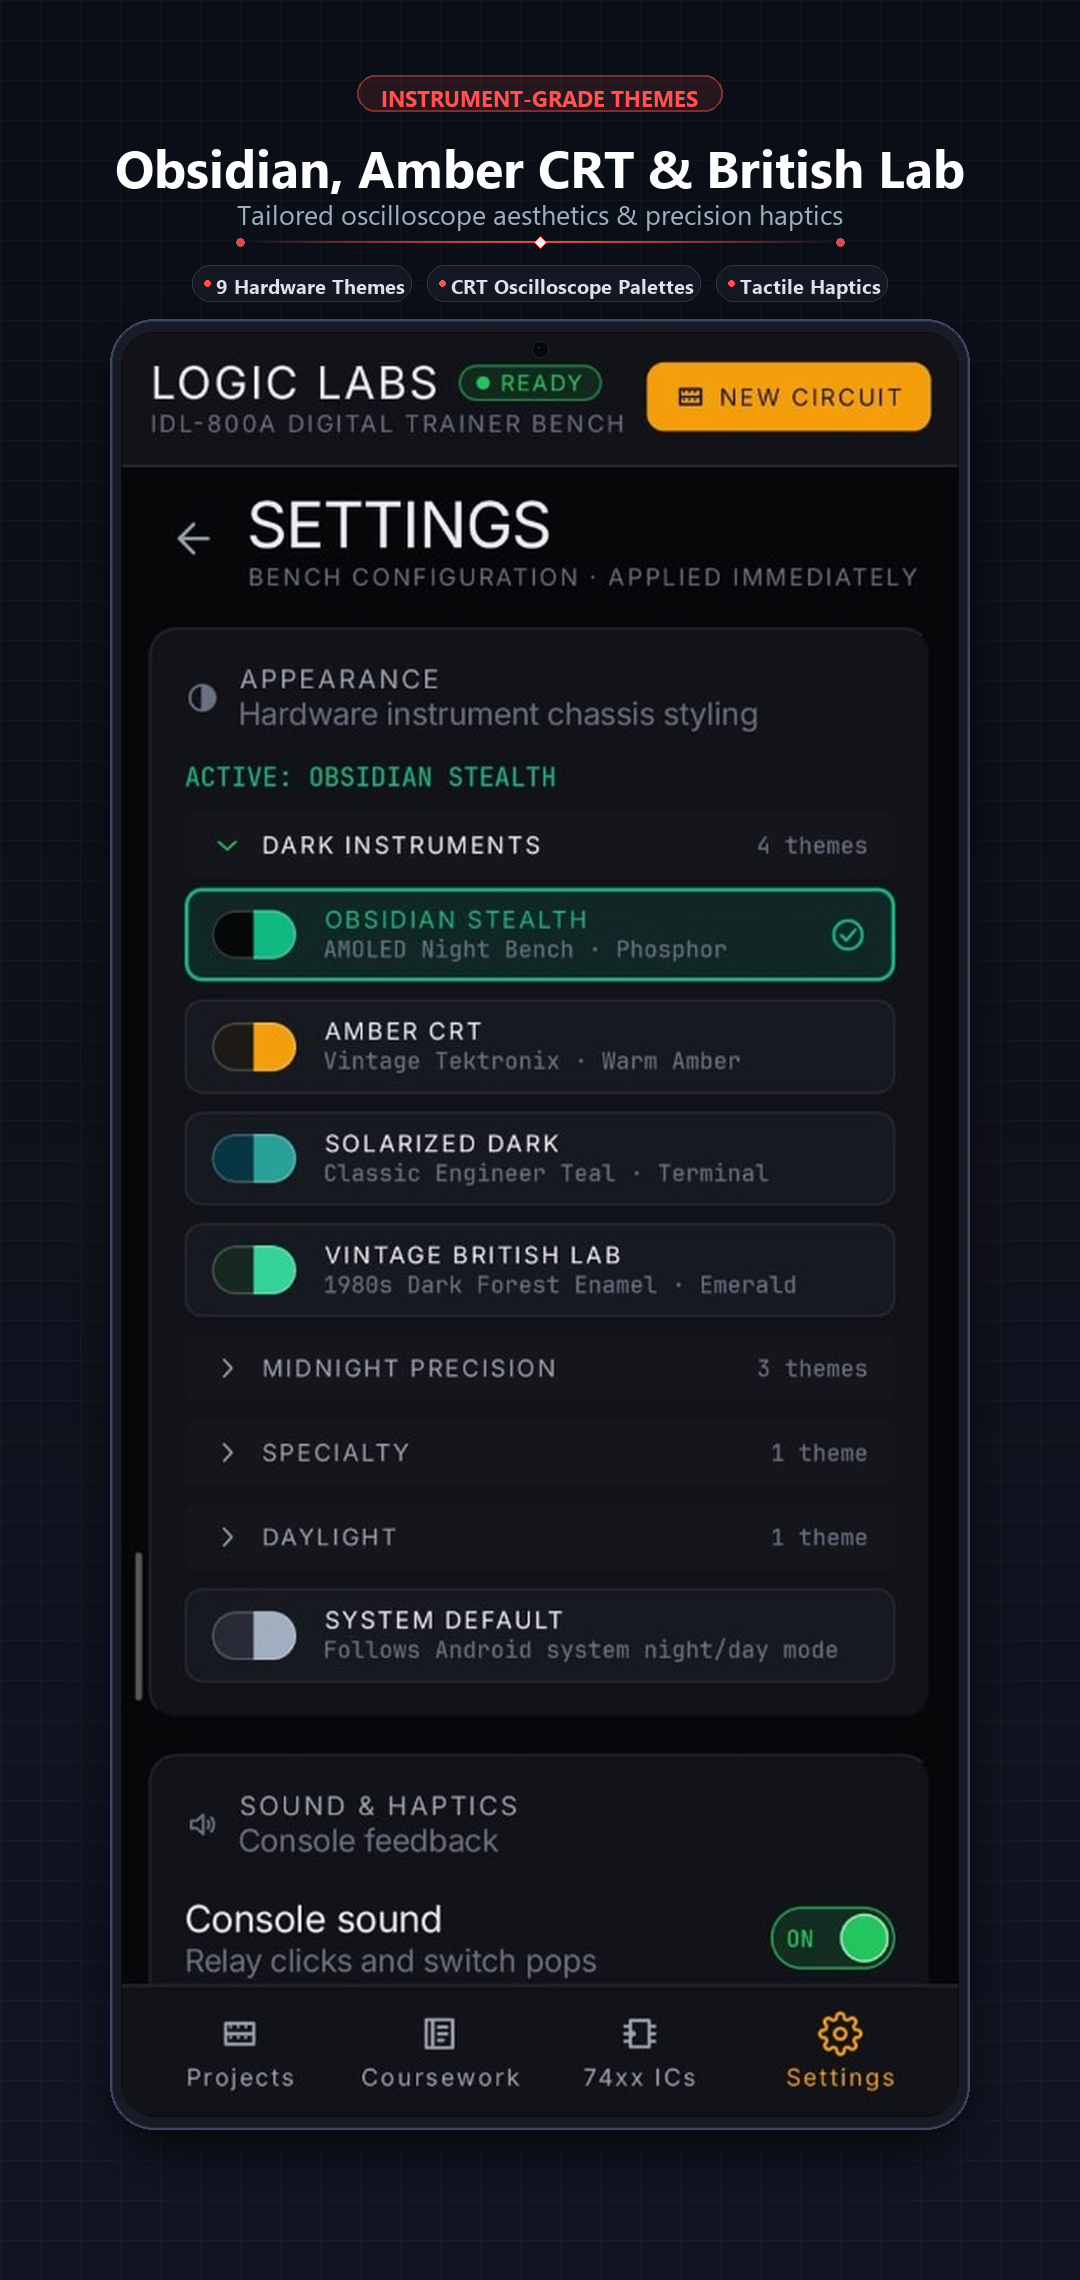
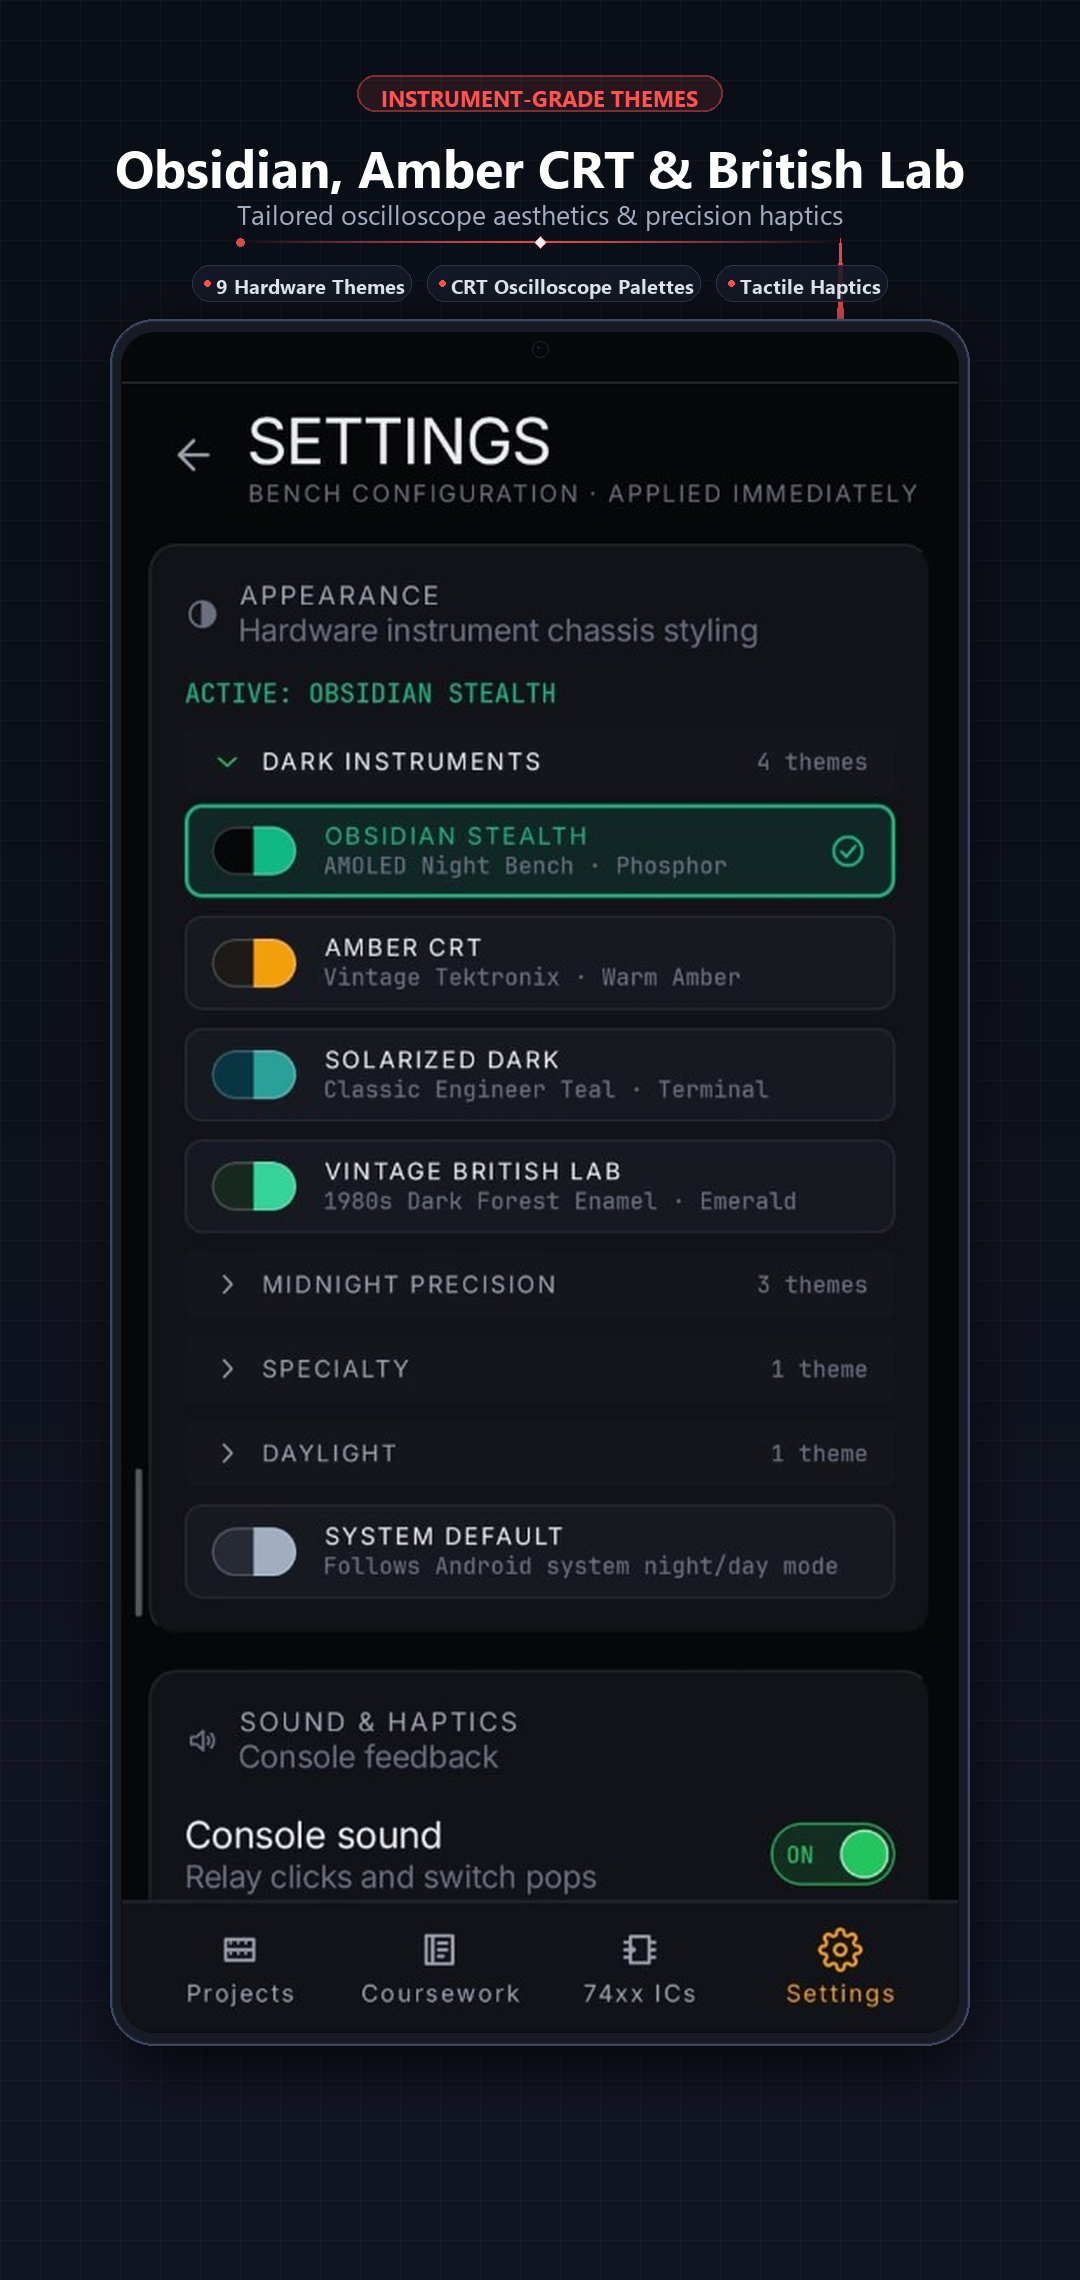
fix(ui): restrict masthead to home tab and update pro screenshots

diff --git a/app/src/main/java/com/logiclabs/app/ui/screens/home/HomeScreen.kt b/app/src/main/java/com/logiclabs/app/ui/screens/home/HomeScreen.kt
@@ -219,7 +219,9 @@ fun HomeScreen(
                     .only(WindowInsetsSides.Top + WindowInsetsSides.Horizontal)
             )
     ) {
-        Masthead(onNewCircuit = { onContinue(BenchRequest.Sandbox) })
+        if (selectedTab == HomeTab.PROJECTS) {
+            Masthead(onNewCircuit = { onContinue(BenchRequest.Sandbox) })
+        }
 
         Box(
             modifier = Modifier
